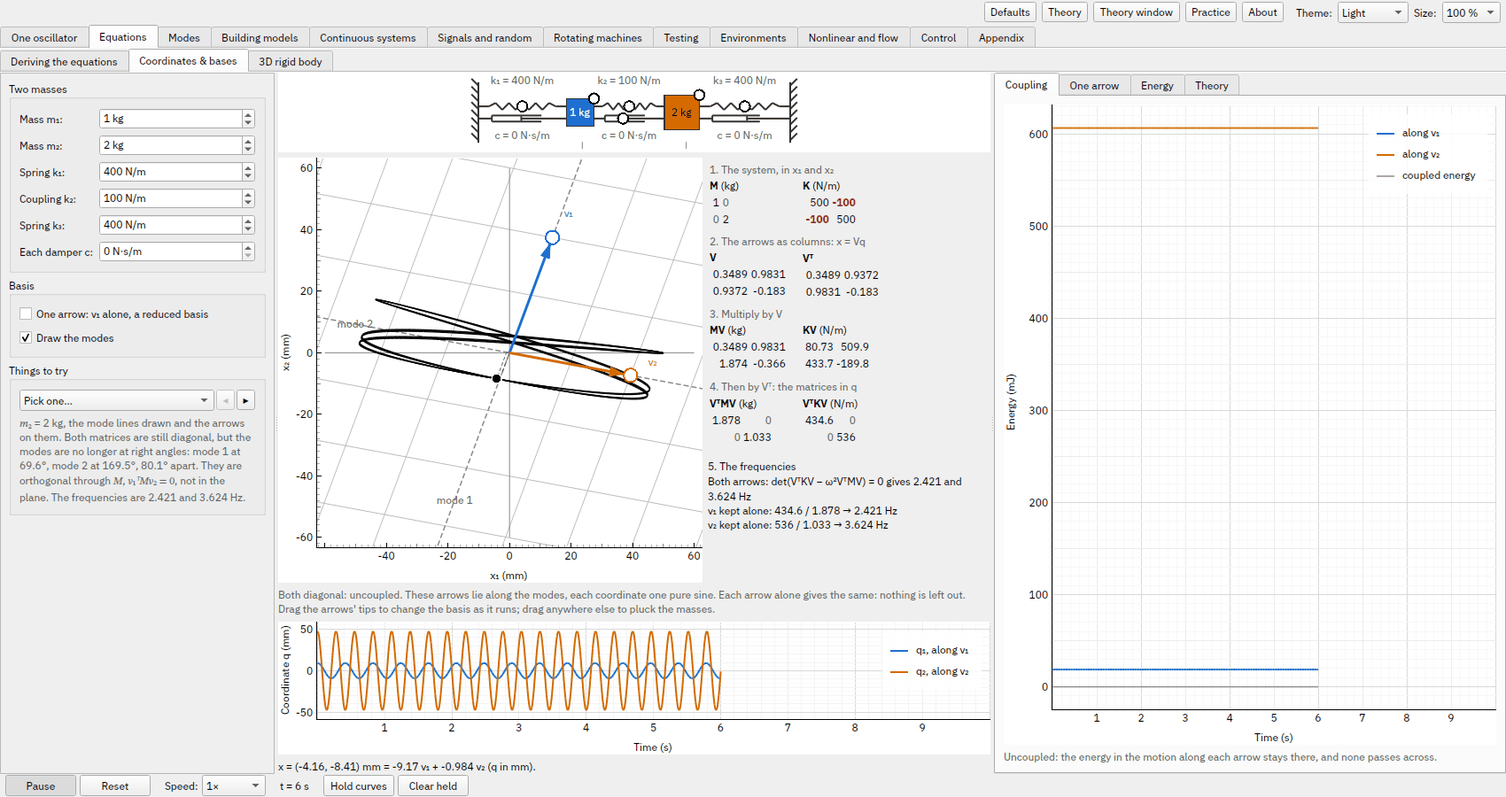
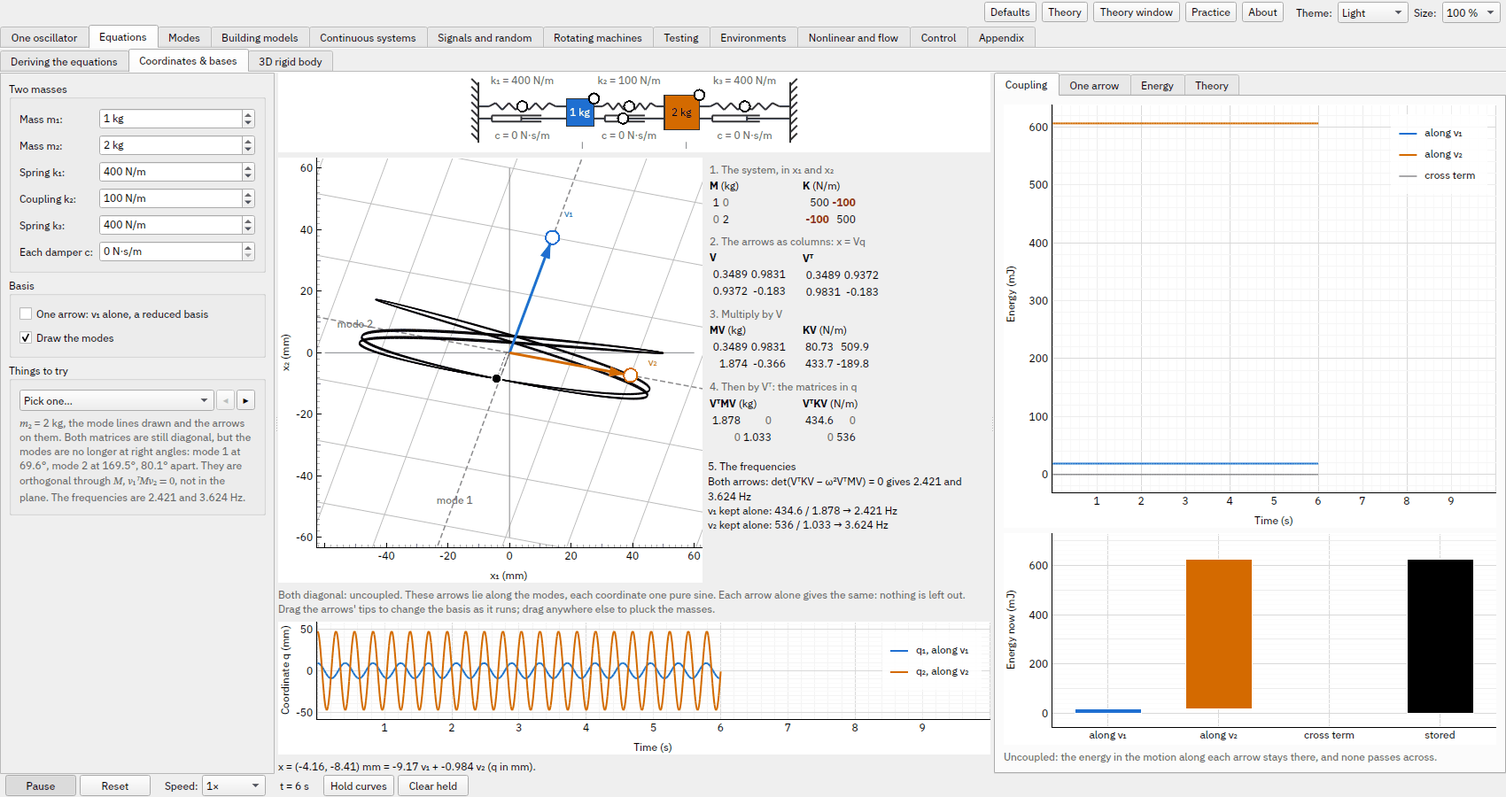
Coordinates & bases: the energy added up in bars, the cross term named as |a+b|², US English (#478 Phase 4)
The Coupling tab's 'coupled energy' confused (the user, 2026-11-26). It is the cross term of the energy of a sum
of two motions, as |a + b|^2 = |a|^2 + |b|^2 + 2a.b: renamed so, its tooltip and the notes say it that way,
and new bars under the plot stack along v1, along v2 and the cross term (down when negative) to the stored
energy beside them (view_models.bases.energy_sum). The page's text is now US English (zero, not nought;
color, meter, toward), and CLAUDE.md asks it of all the app's text.

diff --git a/src/vib_tutorial/theory/bases.html b/src/vib_tutorial/theory/bases.html
@@ -64,24 +64,31 @@ directions are the <b>modes</b>, the solutions of</p>
 is exactly the two off-diagonal terms vanishing <cite>thomson</cite>. It isn't the same as being at right
 angles in the plane: with <m>m<sub>1</sub> = m<sub>2</sub></m> the modes are perpendicular, but with
 <m>m<sub>2</sub> = 2m<sub>1</sub></m> they are 80.1° apart. Drag an arrow near a mode and it snaps onto
-it; snap both, and both matrices show nought off the diagonal.</p>
+it; snap both, and both matrices show zero off the diagonal.</p>
 <p>When the system is symmetric (<m>m<sub>1</sub> = m<sub>2</sub></m>, <m>k<sub>1</sub> = k<sub>3</sub></m>),
 symmetry fixes the modes at ±45° whatever the coupling spring: in phase, the coupling spring isn't
 stretched, <m>ω<sub>1</sub>² = k<sub>1</sub>/m</m>; opposed, it's stretched twice as much on each mass,
 <m>ω<sub>2</sub>² = (k<sub>1</sub> + 2k<sub>2</sub>)/m</m>. Unequal masses or walls turn the modes, and
-then the coupling spring turns them too: a stiffer one pulls mode 1 towards moving together.</p>
+then the coupling spring turns them too: a stiffer one pulls mode 1 toward moving together.</p>
 
 <h3><a name="energy"></a>The energy along each arrow</h3>
-<p>The stored energy, written in the coordinates, splits into the energy of the motion along each arrow,
-<m>E<sub>1</sub></m> and <m>E<sub>2</sub></m> (what it would be with the other coordinate held at nought), and
-the <b>coupled energy</b>, the rest:</p>
+<p>The arrows split the motion into two pieces, <m>q<sub>1</sub>v<sub>1</sub></m> and
+<m>q<sub>2</sub>v<sub>2</sub></m>, moving with velocities <m>q̇<sub>1</sub>v<sub>1</sub></m> and
+<m>q̇<sub>2</sub>v<sub>2</sub></m>. Each piece alone has its own energy, <m>E<sub>1</sub></m> and
+<m>E<sub>2</sub></m>. But the energy of a sum isn't the sum of the energies. It's like the length of a sum of
+two vectors, <m>|a + b|² = |a|² + |b|² + 2a·b</m>: there is a <b>cross term</b>, zero only when
+<m>a</m> and <m>b</m> are at right angles. Energy is a square too, <m>½ẋᵀMẋ + ½xᵀKx</m>, so</p>
 <eq>E = E_1 + E_2 + \tilde m_{12}\dot q_1 \dot q_2 + \tilde k_{12} q_1 q_2</eq>
 <eq>E_i = \tfrac12 \tilde m_{ii}\dot q_i^2 + \tfrac12 \tilde k_{ii} q_i^2</eq>
-<p>with <m>m̃ = VᵀMV</m> and <m>k̃ = VᵀKV</m>. The Coupling tab draws the three as it runs (<m>E<sub>1</sub></m> as "along
-<m>v<sub>1</sub></m>", <m>E<sub>2</sub></m> as "along <m>v<sub>2</sub></m>"). Where the
-coordinates are coupled, energy passes from the motion along one arrow to the motion along the other through
-the last two terms: pluck one mass and the energy drains from its motion into the other's and back, the
-<b>beat</b>. In the modes the coupling terms are nought, and the energy in each mode stays there for ever (less
+<p>with <m>m̃ = VᵀMV</m> and <m>k̃ = VᵀKV</m>. The last two terms are the cross term, and they are made of
+exactly the off-diagonal terms of the matrices beside the plane: the coupling. The Coupling tab draws the three
+as they run (<m>E<sub>1</sub></m> as "along <m>v<sub>1</sub></m>", <m>E<sub>2</sub></m> as "along
+<m>v<sub>2</sub></m>"), and under them adds them up as bars, each stacked on the last, with the stored energy
+beside them. The stored energy stays put; the pieces don't. The cross term swings above and below zero, and
+as it does, energy passes from the motion along one arrow to the motion along the other: pluck one mass and the
+energy drains from its motion into the other's and back, the <b>beat</b>. In the modes the cross term is
+zero, the pieces are "at right angles" as the energy measures them (that is what orthogonal through
+<m>M</m> and <m>K</m> means), and the energy in each mode stays there forever (less
 what the dampers take). Change the arrows and the tab redraws the
 past too, in the new coordinates: the same motion, described again.</p>
 
@@ -123,7 +130,7 @@ with <m>φ<sub>r</sub></m> the modes' arrows. Their orthogonality leaves</p>
 (3). <i>Show the theory</i> draws <m>R</m> through your points.</p>
 <p><b>The conclusion</b>, and the reason it's on this page: a reduced basis holds the system to fewer shapes than
 it has, which can only stiffen it, so <b>its lowest frequency is never below the true one</b>, and a
-reasonable guess at the shape gives a frequency very nearly right. More arrows can only bring it down towards
+reasonable guess at the shape gives a frequency very nearly right. More arrows can only bring it down toward
 the truth. This is the <b>Rayleigh–Ritz method</b>, and it's how large models are solved: in a few good
 shapes, not in all their coordinates. The modes are the basis where it's exact. Later pages (energy methods,
 modal coupling, substructuring) build their reduced models this way.</p>

diff --git a/src/vib_tutorial/gui/bases.py b/src/vib_tutorial/gui/bases.py
@@ -2,11 +2,11 @@
 any basis the reader drags.
 
 Left: the masses and springs, the basis's switches (one arrow, the modes drawn), then the Things to try (setups to go
-back to; their predictions are asked once the reader has handled the masses). Centre: the two masses between their
+back to; their predictions are asked once the reader has handled the masses). Center: the two masses between their
 walls (`bases_view.ChainView`: pluck a mass, or drag its grips to change m and k as it runs), the (x₁, x₂) plane
 (`bases_plane.Plane`: the point and its path, the arrows v₁ and v₂ to drag, the parallelogram q₁v₁ + q₂v₂) with the
 matrices VᵀMV and VᵀKV beside it, their coupling marked, the run's controls, and the coordinates q against time,
-the past redescribed whenever the arrows move. Right: the energy along each arrow and the coupled energy (Coupling),
+the past redescribed whenever the arrows move. Right: the energy along each arrow and the cross term, and their sum in bars (Coupling),
 one arrow's frequency against its angle, built by hand angle by angle (One arrow), the energy balance through every
 change (Energy), and the Theory.
 
@@ -44,9 +44,9 @@ from .frame_loop import FrameLoop
 from .layouts import FlowLayout
 from .lesson import Form, LiveLabel, TrialBox, plot, theory, three_panes
 from .live_parts import ChangeMarks, EnergyTab, run_row
-from .plots import decimate
+from .plots import SteadyRange, decimate
 from .scrub import Scrub
-from .style import colors
+from .style import colors, role
 from .theming import add_legend, mute
 from .transport import Transport
 
@@ -66,11 +66,17 @@ COORDS_TIP = (
     "then.</p>"
 )
 COUPLING_TIP = (
-    "<p>The stored energy, split by the arrows. q₁ and q₂ are how far the point goes along v₁ and v₂ "
-    "(x = q₁v₁ + q₂v₂: the dashed parallelogram on the plane). <b>Along v₁</b> is the energy the motion along v₁ "
-    "would store with q₂ held at nought, and the same for v₂. The <b>coupled energy</b> is the rest, from VᵀMV's "
-    "and VᵀKV's off-diagonal terms: through it energy passes from the motion along one arrow to the motion "
-    "along the other. Turn the arrows onto the modes and it is nought: the energy in each mode stays there.</p>"
+    "<p>The arrows split the motion into two pieces, one along v₁ and one along v₂ (x = q₁v₁ + q₂v₂: the dashed "
+    "parallelogram on the plane). <b>Along v₁</b> is the energy of the first piece alone, <b>along v₂</b> the "
+    "second's. The energy of the two together is those two plus a <b>cross term</b>, as "
+    "|a + b|² = |a|² + |b|² + 2a·b. The cross term can be negative: as it swings, energy passes between the "
+    "pieces. Along the modes it is zero, and each piece keeps its energy.</p>"
+)
+SUM_TIP = (
+    "<p>The energy now, added up. Each bar starts where the last ended: along v₁, then along v₂, then the cross "
+    "term, up when it's positive and down when it's negative. Where they end is the stored energy, the last bar. "
+    "As it runs the pieces trade energy through the cross term, but the total stays put (less what the dampers "
+    "take). Along the modes the cross term is zero and the two pieces hold still.</p>"
 )
 RAIL_TIP = (
     "<p>One arrow's frequency, built by hand: each angle you try lands its measured frequency here "
@@ -79,7 +85,7 @@ RAIL_TIP = (
 )
 MATRICES_TIP = (
     "<p>The mass and stiffness matrices in the basis the arrows make, VᵀMV and VᵀKV. Their off-diagonal terms are "
-    "the coupling between the coordinates (in colour while they aren't nought). Their frequencies, the roots of "
+    "the coupling between the coordinates (in color while they aren't zero). Their frequencies, the roots of "
     "det(VᵀKV − ω²VᵀMV) = 0, are the same in every basis.</p>"
 )
 ENERGY_TIP = (
@@ -207,13 +213,24 @@ class BasesPage(QtWidgets.QWidget):
         self.shares_plot.setToolTip(COUPLING_TIP)
         self.shares_plot.setMouseEnabled(x=False, y=False)
         add_legend(self.shares_plot.getPlotItem(), offset=(-10, 10))
-        self.share_items = [pg.PlotDataItem(name=n) for n in ("along v₁", "along v₂", "coupled energy")]
+        self.share_items = [pg.PlotDataItem(name=n) for n in ("along v₁", "along v₂", "cross term")]
         for item in self.share_items:
             self.shares_plot.addItem(item)
         decimate(self.shares_plot)
         self.shares_note = LiveLabel(wrap=True)  # rewritten as it runs: a QLabel lays the page out each time
         mute(self.shares_note)
-        pv.addWidget(self.shares_plot, 1)
+        # the energy now, added up: each piece stacked on the last, the stored energy beside them
+        self.sum_plot = plot("Energy now", "J", "", None, height=150)
+        self.sum_plot.setAccessibleName("The energy now, added up: along each arrow, the cross term, stored")
+        self.sum_plot.setToolTip(SUM_TIP)
+        self.sum_plot.setMouseEnabled(x=False, y=False)
+        self.sum_bars = pg.BarGraphItem(x=[], height=[], width=0.6)
+        self.sum_plot.addItem(self.sum_bars)
+        self.sum_names: tuple[str, ...] = ()  # the bars' names, as the bottom axis's ticks
+        self.sum_y = SteadyRange(self.sum_plot, "y")
+        self.sum_plot.setXRange(-0.5, 3.5, padding=0)
+        pv.addWidget(self.shares_plot, 2)
+        pv.addWidget(self.sum_plot, 1)
         pv.addWidget(self.shares_note)
 
         rails = QtWidgets.QWidget()
@@ -645,8 +662,27 @@ class BasesPage(QtWidgets.QWidget):
                     item.setData([], [])
             self.shares_plot.setXRange(max(0.0, end - STRIP_SECONDS), max(end, STRIP_SECONDS), padding=0)
             self.shares_note.setText(sh.note if t.size else "Pluck the masses to see the energy along each arrow.")
+            self._draw_sum(view.energy_sum(sh))
         elif i == view.TAB_ENERGY:
             self.energy.draw(live.record, frame)
+
+    def _draw_sum(self, es: view.EnergySum) -> None:
+        """The Coupling tab's bars (`view.energy_sum`): a stack of the pieces, and the stored energy beside it."""
+        bars = es.bars
+        n = len(bars)
+        self.sum_bars.setOpts(
+            x=list(range(n)),
+            y0=[min(b.bottom, b.top) for b in bars],
+            height=[abs(b.top - b.bottom) for b in bars],
+            brushes=[pg.mkBrush(role(b.role)) for b in bars],
+            pen=pg.mkPen(colors.background, width=1),  # a pen a bar trips pyqtgraph 0.14's BarGraphItem
+        )
+        names = tuple(b.name for b in bars)
+        if names != self.sum_names:  # only when the bars change (one arrow or two): ticks re-lay the axis out
+            self.sum_names = names
+            self.sum_plot.getAxis("bottom").setTicks([list(enumerate(names))])
+            self.sum_plot.setXRange(-0.5, max(n, 2) - 0.5, padding=0)
+        self.sum_y.fit(0.0, es.y_top)
 
     def _draw_body(self) -> None:
         x = self.live.x

diff --git a/src/vib_tutorial/view_models/bases.py b/src/vib_tutorial/view_models/bases.py
@@ -13,7 +13,8 @@ code's word: the page calls it *one arrow*, a reduced basis), and what's shown. 
   and what they say: coupled statically, dynamically, both, or not at all (the modes), and the frequencies, the
   same in every basis.
 - `coordinates(V, rail, x)`: the coordinates q against time, and `shares(...)`: the energy of the motion along
-  each arrow and the coupled energy, the **Coupling** tab.
+  each arrow and the cross term, the **Coupling** tab, with `energy_sum(shares)` its bars adding them up now:
+  the energy of a sum of two motions is each one's plus a cross term, as |a + b|² = |a|² + |b|² + 2a·b.
 - The **Rail** tab is built by hand: each rail the reader tries lands its measured frequency at its angle
   (`RailRecorder`), with Rayleigh's quotient over them on request (`rail_view`).
 - The **Energy** tab is `live_bases.energy_view`'s.
@@ -45,7 +46,7 @@ SNAP = 3.0  # ° from a mode or an axis, an arrow dragged snaps onto it
 REACH = 0.06  # m: the plane's half-width
 PLUCK = 0.05  # m: the farthest a pluck pulls either mass
 GRID = 0.02  # m: the coordinates' grid lines are this far apart in q
-COUPLED = 1e-3  # an off-diagonal under this of its diagonal's geometric mean is nought
+COUPLED = 1e-3  # an off-diagonal under this of its diagonal's geometric mean is zero
 
 
 @dataclass(frozen=True)
@@ -96,7 +97,7 @@ GRIPS = {
     "k1": Grip("k1", 1.0, 1e5, per=0.3),
     "k2": Grip("k2", 1.0, 1e5, per=0.3),
     "k3": Grip("k3", 1.0, 1e5, per=0.3),
-    "c": Grip("c", 0.2, 100.0, per=0.2, zero_below=0.3),  # the three dampers' one c; nought below 0.3 N·s/m
+    "c": Grip("c", 0.2, 100.0, per=0.2, zero_below=0.3),  # the three dampers' one c; zero below 0.3 N·s/m
 }
 
 
@@ -215,7 +216,7 @@ class Matrix:
     symbol: str  # "VᵀMV"
     unit: str
     entries: tuple[tuple[str, ...], ...]
-    coupled: bool  # its off-diagonal isn't nought
+    coupled: bool  # its off-diagonal isn't zero
 
 
 @dataclass(frozen=True)
@@ -325,12 +326,12 @@ def coordinates(V: np.ndarray, rail: bool, x: np.ndarray) -> np.ndarray:
 @dataclass(frozen=True)
 class Shares:
     own: tuple[np.ndarray, ...]  # J: the motion along each arrow's, ½m̃ᵢᵢq̇ᵢ² + ½k̃ᵢᵢqᵢ²
-    coupling: np.ndarray  # J: m̃₁₂q̇₁q̇₂ + k̃₁₂q₁q₂, the rest of the stored energy
+    coupling: np.ndarray  # J: the cross term m̃₁₂q̇₁q̇₂ + k̃₁₂q₁q₂, the rest of the stored energy
     note: str
 
 
 def shares(s: TwoMass, V: np.ndarray, rail: bool, x: np.ndarray, v: np.ndarray) -> Shares:
-    """The energy of the motion along each arrow and the coupled energy (see the module), for the samples' x and v."""
+    """The energy of the motion along each arrow and the cross term (see the module), for the samples' x and v."""
     M, _, K = s.matrices()
     B = V[:, :1] if rail else V
     q, qd = coordinates(V, rail, x), coordinates(V, rail, v)
@@ -346,8 +347,45 @@ def shares(s: TwoMass, V: np.ndarray, rail: bool, x: np.ndarray, v: np.ndarray) 
     if not (_coupled(Mt) or _coupled(Kt)):
         note = "Uncoupled: the energy in the motion along each arrow stays there, and none passes across."
     else:
-        note = "Coupled: energy passes back and forth between the motion along v₁ and along v₂, through the coupled energy."
+        note = (
+            "Coupled: the cross term swings above and below zero, and with it energy passes back and forth "
+            "between the motion along v₁ and along v₂."
+        )
     return Shares(own, coupling, note)
+
+
+@dataclass(frozen=True)
+class Bar:
+    name: str
+    bottom: float  # J
+    top: float  # J: below `bottom` for a negative cross term
+    role: str  # its colour, as a theme role's name
+
+
+@dataclass(frozen=True)
+class EnergySum:
+    bars: tuple[Bar, ...]  # along v₁, along v₂, the cross term, stacked on each other; then the stored energy
+    y_top: float  # J: the axis's top, the window's largest sum (so it stays put frame to frame)
+
+
+def energy_sum(sh: Shares) -> EnergySum:
+    """The Coupling tab's bars, now (the window's last sample): each piece stacked on the last, so the cross term
+    plainly adds or takes away, and the stored energy beside them, the same height (see the module)."""
+    if not sh.own or sh.own[0].size == 0:
+        return EnergySum((), 1e-3)
+    own = [float(e[-1]) for e in sh.own]
+    bars, level = [], 0.0
+    for i, e in enumerate(own):
+        bars.append(Bar(f"along v{'₁₂'[i]}", level, level + e, f"mass.{i}"))
+        level += e
+    if len(own) > 1:
+        cross = float(sh.coupling[-1])
+        bars.append(Bar("cross term", level, level + cross, "grey"))
+        level += cross
+    bars.append(Bar("stored", 0.0, level, "strong"))
+    pieces = sum(sh.own)
+    peak = max(float(np.max(pieces)), float(np.max(pieces + sh.coupling)))
+    return EnergySum(tuple(bars), 1.08 * max(peak, 1e-6))
 
 
 # ------------------------------------------------------------------ the rail, built by hand

diff --git a/tests/test_live_bases.py b/tests/test_live_bases.py
@@ -191,3 +191,26 @@ def test_a_trial_survives_json_and_the_views_are_plain():
         view.shares(s, V, True, np.zeros((3, 2)), np.zeros((3, 2))),
     ):
         assert impure(out) == [], type(out).__name__
+
+
+def test_the_bars_add_the_pieces_and_the_cross_term_up_to_the_stored_energy():
+    """`energy_sum`: along v₁, along v₂ and the cross term stacked, each from where the last ended, to the stored
+    energy beside them; along the modes the cross term is zero."""
+    s = TwoMass()
+    live = plucked(system=s)
+    live.advance(0.37)
+    _, y = live.record.window(10.0)
+    x, v = y[:, COL["x1"] : COL["x2"] + 1], y[:, COL["v1"] : COL["v2"] + 1]
+    sh = view.shares(s, np.eye(2), False, x, v)
+    es = view.energy_sum(sh)
+    one, two, cross, stored = es.bars
+    assert [b.name for b in es.bars] == ["along v₁", "along v₂", "cross term", "stored"]
+    assert (one.bottom, two.bottom, cross.bottom) == (0.0, one.top, two.top)
+    assert cross.top == pytest.approx(stored.top) and stored.bottom == 0.0
+    assert stored.top == pytest.approx(live.stored(), rel=1e-9)
+    assert es.y_top >= stored.top and es.y_top >= two.top
+    E = np.array([[1.0, -1.0], [1.0, 1.0]]) / math.sqrt(2.0)  # the modes
+    modal = view.energy_sum(view.shares(s, E, False, x, v))
+    assert modal.bars[2].top == pytest.approx(modal.bars[2].bottom, abs=1e-12 + 1e-9 * stored.top)
+    rail = view.energy_sum(view.shares(s, np.eye(2), True, x, v))
+    assert [b.name for b in rail.bars] == ["along v₁", "stored"]

diff --git a/src/vib_tutorial/gui/bases_view.py b/src/vib_tutorial/gui/bases_view.py
@@ -12,7 +12,7 @@
 Each spring has its damper beneath it (`SPRING_Y`, `DAMPER_Y`: close enough to the middle that both meet the
 lightest mass drawn), the dashpot's piston following the two ends as the Single oscillator's does.
 
-The motion is drawn magnified, `GAIN` display units a metre, the same as the plane's reach always: the plane beside
+The motion is drawn magnified, `GAIN` display units a meter, the same as the plane's reach always: the plane beside
 it is in mm and never rescales, so neither does this.
 
 Working on it: `tests/test_bases_page.py` drags the grips and plucks with synthetic mouse events.
@@ -37,7 +37,7 @@ from .style import colors, text_on
 WALL_L, WALL_R = 0.0, 3.6
 REST = (1.2, 2.4)  # the masses' centres at rest (display units)
 SIDE = 0.4  # the 1 kg mass's side
-GAIN = 6.0  # display units a metre: 50 mm is 0.3
+GAIN = 6.0  # display units a meter: 50 mm is 0.3
 GRIP_R = 0.06
 SPRING_Y, DAMPER_Y = 0.07, -0.07  # the lightest mass drawn is 0.16 tall: both meet it
 LABEL_GAP = 0.07

diff --git a/src/vib_tutorial/gui/bases_trials.py b/src/vib_tutorial/gui/bases_trials.py
@@ -65,7 +65,7 @@ TRIALS = (
         "The same pluck, described along the modes: <m>v<sub>1</sub></m> at 45°, in phase, and "
         "<m>v<sub>2</sub></m> at 135°, opposed. Both matrices are diagonal, <m>VᵀMV</m> = 1 kg and <m>VᵀKV</m> = "
         "400 and 600 N/m on the diagonal, and each coordinate's trace is one clean sine: 3.183 Hz and 3.898 Hz. "
-        "On the Coupling tab the energy in each mode stays there, and none passes across. The motion is the same; "
+        "On the Coupling tab the cross term is zero: the energy in each mode stays there, and none passes across. The motion is the same; "
         "only its description changed.",
         v1=IN_PHASE,
         v2=OPPOSED,

diff --git a/tests/test_readiness.py b/tests/test_readiness.py
@@ -208,6 +208,7 @@ def _bases_views(state):
         v.projection(V, False, x[-1]),
         v.matrices_view(s, V, state.rail),
         v.shares(s, V, state.rail, x, xd),
+        v.energy_sum(v.shares(s, V, state.rail, x, xd)),
         v.rail_view(s, rec.current(v.key(s)), rec.earlier(v.key(s)), True, 30.0),
         lb.energy_view(t, y),
     )

diff --git a/CLAUDE.md b/CLAUDE.md
@@ -21,6 +21,7 @@ Real-time teaching app for an N-mass spring-damper chain (PySide6 + pyqtgraph + 
 - `src/vib_tutorial/gui/` holds the Qt widgets. `main_window.py` holds the pages and what spans them (the chain the pages follow, Defaults, the Theory and Practice windows, theme, present mode, keys); `simulation_page.py`'s `SimulationPage` is the Simulation page, which owns the chain and wires its panels to `Simulator`.
 - A module's docstring says how it works and, under *Working on it*, what to keep and which tests check it (the rotor's: `core/rotor.py`, `rotor_modes.py`, `rotor_simulator.py`; the films' and the rub's are the simulator's). Read it before changing the module, and keep it up to date there, not here.
 - `gui.run()` opens on the page last shown (`open_start_page`: `_on_page_changed` keeps its name in the settings, `LAST_PAGE`), the first time on the course's first page (`open_first_page`, from `links.COURSE`), whose Theory starts with the course map; a bare `MainWindow()` shows the Simulation page, so tests and screenshots build no lazy page. A page once built stays built (its state is kept as the reader left it, and coming back is instant): the window with the Simulation page takes ~170 MB, all 41 pages ~710 MB (measured 2026-11-16; the largest: Random vibration +76 MB, its long records; the Jeffcott rotor +40; OMA +30; the first page after the Simulation page also pays the scientific modules' one-time load). That's the trade made (#316 E8): don't free pages to save memory without measuring a need, since rebuilding costs up to a second and loses the page's state. The *Theory window* (`gui/theory_window.py`, Ctrl+F1, built when first opened) shows any page's notes without building the page: `notes_pages.page_html` (Qt-free) reads the page module's `NOTES_HTML` or `THEORY_HTML` (or `BACKGROUND_HTML`), so keep a page's Theory in one of those, the same as its tab shows (a test compares them). `scripts/export_notes.py OUT` writes every page's notes as static HTML with their equations and figures as SVG (`gui/notes_export.py`, no Qt drawing). Its search box (Find: ⌘F or Ctrl+F, from a page too, `MainWindow.find_in_notes`) indexes those notes' text by section, and the *Glossary of symbols* (its first entry) lists every symbol in `gui/notation.py`'s `SYMBOLS` with a `page:` link to where each comes in: add a symbol there when a page brings in a new one (a letter with a second meaning gets a row of its own). The notes' text lives in `src/vib_tutorial/theory/<module>.html` (packaged by maturin and the spec's `datas`), read by `links.load_notes(name, **parts)`: Qt's rich text plus `<before>` (the page: links to read first) and `<takeaways>` (an `<li>` each), `<eq>` (a display equation in raw LaTeX, typeset by ziamath: `gui/maths.py`; keep each under 360 px, a test checks) and `<m>` (inline maths, set in the bundled STIX Two Text with its variables in italic), `<notation>keys</notation>` (the page's symbol table, from `notation.SYMBOLS`) and `<cite>`/`<reading>` (its *Further reading*, from `gui/references.py`), which it writes out, and `<!--PART-->` markers it fills with what the code works out (`trials=trials_html(TRIALS)`, the course map); write new notes there, not in Python strings (a section another page includes gets its own file and a part: `deriving_pendulum`); headings without an anchor get one for its contents tree. Its `page:` links stay in it. A figure is `<img src="fig:name">`, drawn in the theme's colours by the page's figure module (`gui/<page>_figures.py`, its `FIGURES` dict), which the page passes to the notes that show it, `load_notes(..., figures=<page>_figures.FIGURES)` (`gui/figures.py` has the primitives and the house style; a label's sub- and superscripts are `<sub>`/`<sup>` in `fig.text`, as Qt's SVG ignores a tspan's shift; `test_every_theory_tab_fits_a_1280_px_window` checks every page's notes need no sideways scroll, ~360 px figures). Show notes in a `notes_view.NotesBrowser` (`lesson.theory`), which draws the equations and figures and redraws them on a theme change (a test checks every page's Theory is one).
+- The app's text (notes, tooltips, readouts, trials, docs) is in **US English**: its spelling (color, center, meter, behavior, analyze, modeling, gray in prose) and its wording ("zero", not "nought"; "toward"; "forever"). Code names keep what they are (`colors.grey`, a variable `centre`) until a sweep renames them.
 - Units are SI throughout (kg, N/m, N·s/m, m, N, Hz in UI / rad/s internally where named `omega`).
 - The simulator uses an exact FOH matrix-exponential discretization. Don't replace it with an explicit integrator, because stiff user inputs must stay stable.
 - The main window's pages are a `PageGroups` (`gui/tab_groups.py`): the groups and their order come from `gui/links.py`'s `COURSE`, the order they're meant to be read in (each page uses only ideas from the pages before it). It mirrors QTabWidget's API over the flat order, so `w.pages.setCurrentWidget(page)` works across groups. Theory notes link to each other with `page:<attribute>#<anchor>` (`MainWindow.go_to`); every page's notes end with `links.next_html` ("Next: … →", a `NotesBrowser.footer` on its tab, appended by `page_html` in the Theory window), and Ctrl+PgDown/PgUp step through `links.order()`; a notes file's `<before>` becomes its "Before this page" line (only earlier pages; `links.before`) and `<takeaways>` its closing list (`links.takeaways`). `links.PATHS` are shorter ways through the course, shown under the first page's map (with each page's problems solved, `practice.progress()`, redrawn as the notes show): each holds every page its pages build on, which `tests/test_links.py` checks, as it checks every link lands on an `<a name>`, every page has both, and a link in the prose to a later page says so in its sentence ("later", "ahead", "next"): it's a pointer, and the page mustn't lean on it. A page's notes may open with `<goals page="…">` (*On this page you'll*), an `<li trial="n" problem="key">` per goal, whose links set up its Thing to try n and ask its problem (`notes_view.ACTIONS`, `MainWindow.act`; `test_links` checks they exist). A trial may carry `predict=Prediction(prompt, choices, answer, why=...)` (`core/practice.py`), which its `TrialBox(..., predictions=...)` asks before setting it up, its note then the explanation (`load_trial` from code skips it); `why` gives a reason for each wrong choice, shown when it's picked (`tests/test_practice.py` checks every one has them), and the Theory tab lists such a trial by its question alone (its note gives the answer away). A question whose answer is a place on a plot is a `Placement` instead (a level or a time, the page's plot by name, its span and a reason for a guess too low or too high): the reader drags a line there, and the guess stays on the plot beside the result (a few One oscillator trials so far). The One oscillator pages have both so far. A page's one-click *Things to try* is a `TRIALS` tuple (its notes may use `<m>`, set by `maths.markup` wherever they show) (the Simulation page's in `gui/sim_trials.py`) whose notes the Theory tab lists too, picked from a `lesson.TrialCombo` (numbered as the Theory's list, keeps the pick shown, a re-pick sets it up again; tests pick by name with `pick`), laid out in a `lesson.TrialSteps` (◂ ▸ beside it, and Alt+PgUp/PgDown on the page showing, step through them in order; presenting with the controls folded, `gui/trial_overlay.py` shows the step's note large); a trial that changes the chain emits `system_requested` rather than setting it, and `tests/test_tutorial_numbers.py` checks the numbers its note quotes. A trial's setup (a `TrialBox` pick, a challenge's or a practice problem's setup, Defaults) runs in a `gui/coalesce.py` `batch()`: mark a page's outermost redraw `@coalesce.coalesced` and it draws once, at the setup's end, with the whole trial loaded, however many of its changes asked for it (a `Deferred` tab too); `tests/test_trial_redraws.py` holds each page to its `BUDGET` of redraws a trial.

diff --git a/docs/equations.md b/docs/equations.md
@@ -39,7 +39,7 @@ x = q₁v₁ + q₂v₂: drag them while it runs and the matrices beside them, V
 coupling marked (static, dynamic, both or none), while the frequencies never do. The coordinates' traces below are
 described again in the new basis, the past too. Along the modes both matrices are diagonal and each coordinate is
 one clean sine; with unequal masses the modes aren't at right angles, only orthogonal through M. The Coupling tab
-splits the energy into the motion along each arrow and the coupled energy: plucking one mass, it beats across and back. Take
+splits the energy into the motion along each arrow and a cross term, and adds them up in bars: plucking one mass, it beats across and back. Take
 one arrow away, a reduced basis, and the masses swing at Rayleigh's quotient: the One arrow tab is built by hand, each angle's
 measured frequency landing at its angle, lowest along mode 1. Masses and springs change as it runs by their grips;
 one arrow can be kept, turned and given back its partner, each change booked in the energy balance.
